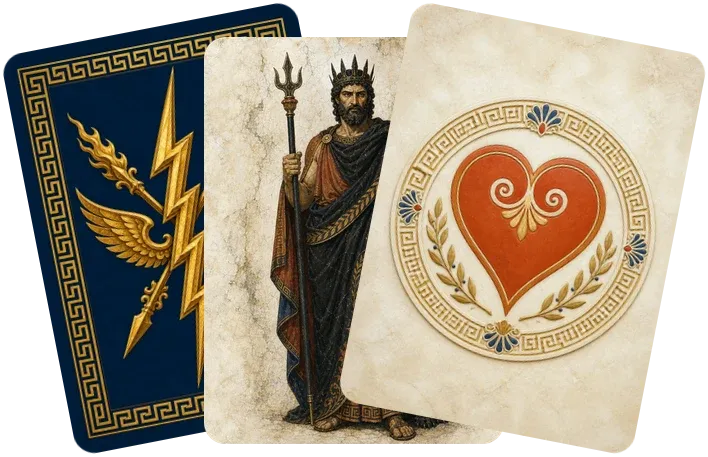
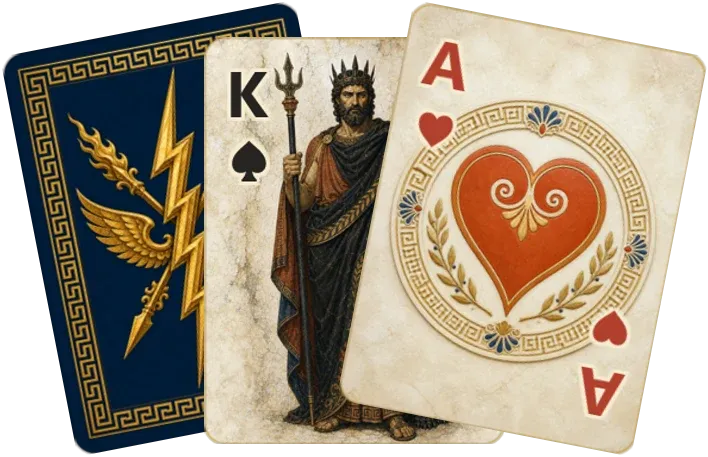
feat: real cards everywhere — all ten decks, and no more CSS mock-ups
Four decks were missing or misrepresented. Felt House and Noir had no art
on disk at all, being drawn by Win2D at runtime; Scarab and Olympus ship
only their raster layer, so the gallery was showing their courts without
the gold index the app draws over the top. All four now come from cards
the app renders itself, so what the gallery shows is what the game paints.
The gallery is ten decks, no longer eight plus an apology.

Ornamental credits Nicu Buculei, whose OpenClipart deck it is. CC0 asks for
no attribution; giving it anyway costs a line.

Deepfield is no longer "commissioned" — it says what the deck looks like
instead of how it was procured.

The home page's decorative cards were CSS rectangles with a glyph in them.
They are real cards now: Valhalla's back and Ace of Hearts against the
Crazy Quilt screenshot, which is Valhalla art, and a Herbarium queen, a
Valhalla back and a Monosolid seven in the sandbox section, where three
decks say more than three rectangles.

Colourblind keeps a line of its own rather than a picture — it earns its
place by what it does for suit-telling, not by how it looks.

Claude-Session: https://claude.ai/code/session_01R6qU66ZsW9ssjioaFjdoXT

diff --git a/decks.html b/decks.html
@@ -3,7 +3,7 @@
 <head>
   <meta charset="UTF-8">
   <meta name="viewport" content="width=device-width, initial-scale=1">
-  <meta name="description" content="Every card deck in Cardz: Norse woodcut, Egyptian papyrus, pressed botanicals, engraved filigree, and more.">
+  <meta name="description" content="Every card deck in Cardz: the house deck, Norse woodcut, Egyptian papyrus, pressed botanicals, engraved filigree, neon noir, and more.">
   <meta name="theme-color" content="#100f14">
   <title>Card decks — Cardz</title>
   <link rel="icon" href="assets/cardz-logo.png">
@@ -24,11 +24,17 @@
   </header>
   <main id="main" class="decks-main">
     <header class="decks-head">
-      <p class="eyebrow"><span></span> Eleven decks</p>
+      <p class="eyebrow"><span></span> 10 decks</p>
       <h1>Every hand<br><em>looks like somewhere.</em></h1>
       <p class="lede">A deck is not a skin in Cardz — each one brings its own table, its own suit colours, and its own painted courts and jokers. Switch at any time, mid-game.</p>
     </header>
     <section class="deck-grid" aria-label="Illustrated decks">
+        <article class="deck-card">
+          <img src="assets/decks/felt-house.webp" width="708" height="457" loading="lazy"
+               alt="Three cards from the Felt House deck: the back, the King of Spades, and the Ace of Hearts">
+          <h2>Felt House</h2>
+          <p>The house deck, and the one Cardz deals with until you choose otherwise. Classical proportions, a warm cream face, and a gold clubs medallion on the back.</p>
+        </article>
         <article class="deck-card">
           <img src="assets/decks/valhalla.webp" width="708" height="457" loading="lazy"
                alt="Three cards from the Valhalla deck: the back, the King of Spades, and the Ace of Hearts">
@@ -63,13 +69,20 @@
           <img src="assets/decks/ornamental.webp" width="708" height="457" loading="lazy"
                alt="Three cards from the Ornamental deck: the back, the King of Spades, and the Ace of Hearts">
           <h2>Ornamental</h2>
-          <p>The first illustrated deck Cardz shipped — drawn as vector ornament and rasterized so that every hairline survives at card size.</p>
+          <p>The first illustrated deck Cardz shipped — vector ornament rasterized so that every hairline survives at card size, on a Victorian damask table.</p>
+          <p class="deck-credit">Card art by Nicu Buculei, from his OpenClipart ornamental deck. Released into the public domain (CC0 1.0).</p>
         </article>
         <article class="deck-card">
           <img src="assets/decks/deepfield.webp" width="708" height="457" loading="lazy"
                alt="Three cards from the Deepfield deck: the back, the King of Spades, and the Ace of Hearts">
           <h2>Deepfield</h2>
-          <p>A commissioned space deck: dark navy cards, orbital pips, celestial courts, and four colours of suit instead of the usual two.</p>
+          <p>A space deck: dark navy cards, orbital pips, celestial courts, and four colours of suit instead of the usual two.</p>
+        </article>
+        <article class="deck-card">
+          <img src="assets/decks/noir.webp" width="708" height="457" loading="lazy"
+               alt="Three cards from the Noir deck: the back, the King of Spades, and the Ace of Hearts">
+          <h2>Noir</h2>
+          <p>Neo-noir neon. Near-black cards in cyan and magenta, glowing two-headed courts, and a lit grid on the back.</p>
         </article>
         <article class="deck-card">
           <img src="assets/decks/monosolid.webp" width="708" height="457" loading="lazy"
@@ -78,15 +91,8 @@
           <p>Paper-cut shapes in two inks against a dark ink table. Type as image, tally pips, and courts cut down to a crown, an orb, and a blade.</p>
         </article>
     </section>
-    <section class="decks-drawn">
-      <p class="eyebrow"><span></span> Drawn by the app</p>
-      <h2>Three more, painted live.</h2>
-      <p>These are rendered by Cardz itself rather than shipped as pictures, so there is nothing to photograph here — you will meet them in the app.</p>
-      <div>
-          <div><h3>Felt House</h3><p>The house deck, drawn by the app itself. Clean, classical, and the one Cardz deals with until you choose otherwise.</p></div>
-          <div><h3>Noir</h3><p>Neo-noir neon — near-black cards in cyan and magenta, glowing two-headed courts, and a lit grid on the back.</p></div>
-          <div><h3>Colourblind</h3><p>A two-colour deck built for colour-vision deficiency: blue hearts and diamonds, black spades and clubs, so the suits never rely on red against green.</p></div>
-      </div>
+    <section class="decks-note">
+      <p>Cardz also ships a Colourblind deck — blue hearts and diamonds against black spades and clubs — so that telling the suits apart never depends on telling red from green.</p>
     </section>
     <section class="decks-cta">
       <a class="button" href="https://apps.microsoft.com/detail/9N96G6H34XCT"><span class="windows-mark" aria-hidden="true">⊞</span><span><small>Get it on the</small>Microsoft Store</span></a>

diff --git a/site-extras.css b/site-extras.css
@@ -8,6 +8,15 @@
 .roster-list b { display: inline-block; margin-left: .5rem; vertical-align: .16em; padding: .2rem .42rem; border: 1px solid var(--gold); color: #795915; font: 600 .55rem/1 "DM Sans", sans-serif; letter-spacing: .12em; text-transform: uppercase; }
 .sandbox-button { margin-top: 1.2rem; }
 
+/* The hero and sandbox decoration are real cards now, not CSS rectangles with a
+   glyph in them. These strip the drawn card's fills, borders and inner glyph
+   styling, and restore the true 84:114 card proportion the old boxes only
+   approximated. */
+img.floating-card, img.demo-card { background: none; border: 0; padding: 0; object-fit: contain; }
+img.floating-card { height: auto; aspect-ratio: 84 / 114; }
+img.demo-card { height: auto; aspect-ratio: 84 / 114; display: block; }
+img.demo-card.c2 { border: 0; }
+
 .sandbox-page { background: #100f14; color: var(--paper); }
 .sandbox-hero { min-height: 610px; padding: 130px clamp(24px, 9vw, 150px) 90px; display: grid; grid-template-columns: 1.1fr .9fr; align-items: center; gap: 7vw; background: radial-gradient(circle at 80% 35%, rgba(216,168,78,.13), transparent 30%), linear-gradient(145deg,#0f192a,#100f14 55%,#25182d); }
 .sandbox-hero h1 { margin: 0; font: 600 clamp(4.2rem, 8vw, 8rem)/.86 "Playfair Display", serif; letter-spacing: -.055em; }
@@ -90,12 +99,9 @@
 .deck-card img { width: 100%; height: auto; margin-bottom: 1.6rem; filter: drop-shadow(0 18px 34px rgba(0, 0, 0, .55)); }
 .deck-card h2 { margin: 0 0 .7rem; font: 600 1.7rem "Playfair Display", serif; }
 .deck-card p { margin: 0; color: #a9a094; font-size: .85rem; line-height: 1.8; }
-.decks-drawn { padding: 90px 0 20px; }
-.decks-drawn h2 { margin: 0 0 1rem; font: 600 clamp(2rem, 3.5vw, 2.9rem) "Playfair Display", serif; }
-.decks-drawn > p { color: #a9a094; line-height: 1.85; max-width: 620px; }
-.decks-drawn > div { display: grid; grid-template-columns: repeat(auto-fit, minmax(260px, 1fr)); gap: 2.4rem; margin-top: 3rem; padding-top: 2.4rem; border-top: 1px solid rgba(216, 168, 78, .18); }
-.decks-drawn h3 { margin: 0 0 .6rem; font: 600 1.3rem "Playfair Display", serif; color: var(--gold); }
-.decks-drawn div p { margin: 0; color: #a9a094; font-size: .85rem; line-height: 1.8; }
+.deck-credit { margin-top: .9rem !important; padding-top: .9rem; border-top: 1px solid rgba(216, 168, 78, .16); color: #837a6f !important; font-size: .72rem !important; }
+.decks-note { padding: 70px 0 0; }
+.decks-note p { max-width: 640px; margin: 0; color: #a9a094; line-height: 1.85; border-left: 2px solid var(--gold); padding-left: 1.4rem; }
 .decks-cta { padding: 90px 0 110px; }
 
 .policy-body { background: #eee3d1; }

diff --git a/index.html b/index.html
@@ -41,8 +41,8 @@
           <div class="window-bar"><span class="mini-brand">✣ Cardz</span><span class="window-dots">— □ ×</span></div>
           <img src="assets/screenshots/crazy-quilt.webp" alt="A game of Crazy Quilt in Cardz — a woven lattice of illustrated Valhalla cards on a dark wood table">
         </div>
-        <div class="floating-card card-back" aria-hidden="true"><span>✣</span></div>
-        <div class="floating-card card-face" aria-hidden="true"><b>A</b><i>♥</i><strong>♥</strong></div>
+        <img class="floating-card card-back" src="assets/cards/valhalla-back.webp" alt="" aria-hidden="true" width="300" height="407" loading="lazy">
+        <img class="floating-card card-face" src="assets/cards/valhalla-ace-hearts.webp" alt="" aria-hidden="true" width="300" height="407" loading="lazy">
       </div>
     </section>
 
@@ -97,7 +97,7 @@
 
     <section class="sandbox section" id="features">
       <div class="sandbox-copy reveal"><p class="eyebrow light"><span></span> The heart of Cardz</p><h2>A deck.<br><em>No rules.</em></h2><p>Sandbox begins with a table and a deck. Move any card anywhere, invent a game as you go, or recreate one only your family knows. Twelve physical modes let you gather, spread, fish, rotate, shuffle, and reshape the cards without telling you what is allowed.</p><ul><li><span>01</span>Rules stay completely optional</li><li><span>02</span>Twelve composable table modes</li><li><span>03</span>One deck, two decks, or jokers</li></ul><a class="button sandbox-button" href="sandbox.html">Explore Sandbox <span aria-hidden="true">→</span></a></div>
-      <div class="sandbox-art reveal"><div class="orbit orbit-one"></div><div class="orbit orbit-two"></div><div class="demo-card c1"><b>Q</b><i>♠</i></div><div class="demo-card c2 back"><span>✣</span></div><div class="demo-card c3"><b>7</b><i class="red">♦</i></div><p>There is no<br>wrong move here.</p></div>
+      <div class="sandbox-art reveal"><div class="orbit orbit-one"></div><div class="orbit orbit-two"></div><img class="demo-card c1" src="assets/cards/herbarium-queen-spades.webp" alt="" aria-hidden="true" width="300" height="407" loading="lazy"><img class="demo-card c2" src="assets/cards/valhalla-back.webp" alt="" aria-hidden="true" width="300" height="407" loading="lazy"><img class="demo-card c3" src="assets/cards/monosolid-seven-diamonds.webp" alt="" aria-hidden="true" width="300" height="407" loading="lazy"><p>There is no<br>wrong move here.</p></div>
     </section>
 
     <section class="details section" id="privacy">

diff --git a/README.md b/README.md
@@ -39,11 +39,22 @@ taglines, and which games wear a *New* badge. The build **fails** if
 cannot quietly go missing from the site.
 
 `decks.html` is generated the same way, from `data/decks.json` (editorial) plus
-`assets/decks/*.webp` — three-card fans composited from the app's own shipped
-card art by cardz-win's `scripts/build-deck-gallery.mjs`. Run that when a deck's
-art changes. Only the illustrated decks can be pictured; Felt House, Noir and
-Colourblind are painted by the app at runtime, so the page names them instead of
-faking a mock-up.
+`assets/decks/*.webp` — three-card fans composited by cardz-win's
+`scripts/build-deck-gallery.mjs`. Run that when a deck's art changes.
+
+Its card art comes from two places. Most decks ship their cards as PNGs, so the
+fan is cut straight from those. The rest — the procedural decks, which have no
+art on disk, and the hybrids, whose art carries no rank index because the app
+draws that on top — are rendered by the app itself first:
+
+```powershell
+winapp run <build output> --detach --args "--export-decks=<dir>"
+node ..\cardz-win\scripts\build-deck-gallery.mjs --rendered <dir>
+```
+
+The same script also cuts the single cards in `assets/cards/`, which decorate the
+home page's hero and sandbox sections. Those used to be CSS rectangles with a
+glyph in them.
 
 See `docs/website-plan.md` in the app repo for why it is built this way and
 what comes next (board diagrams, a decks gallery, localized pages).
